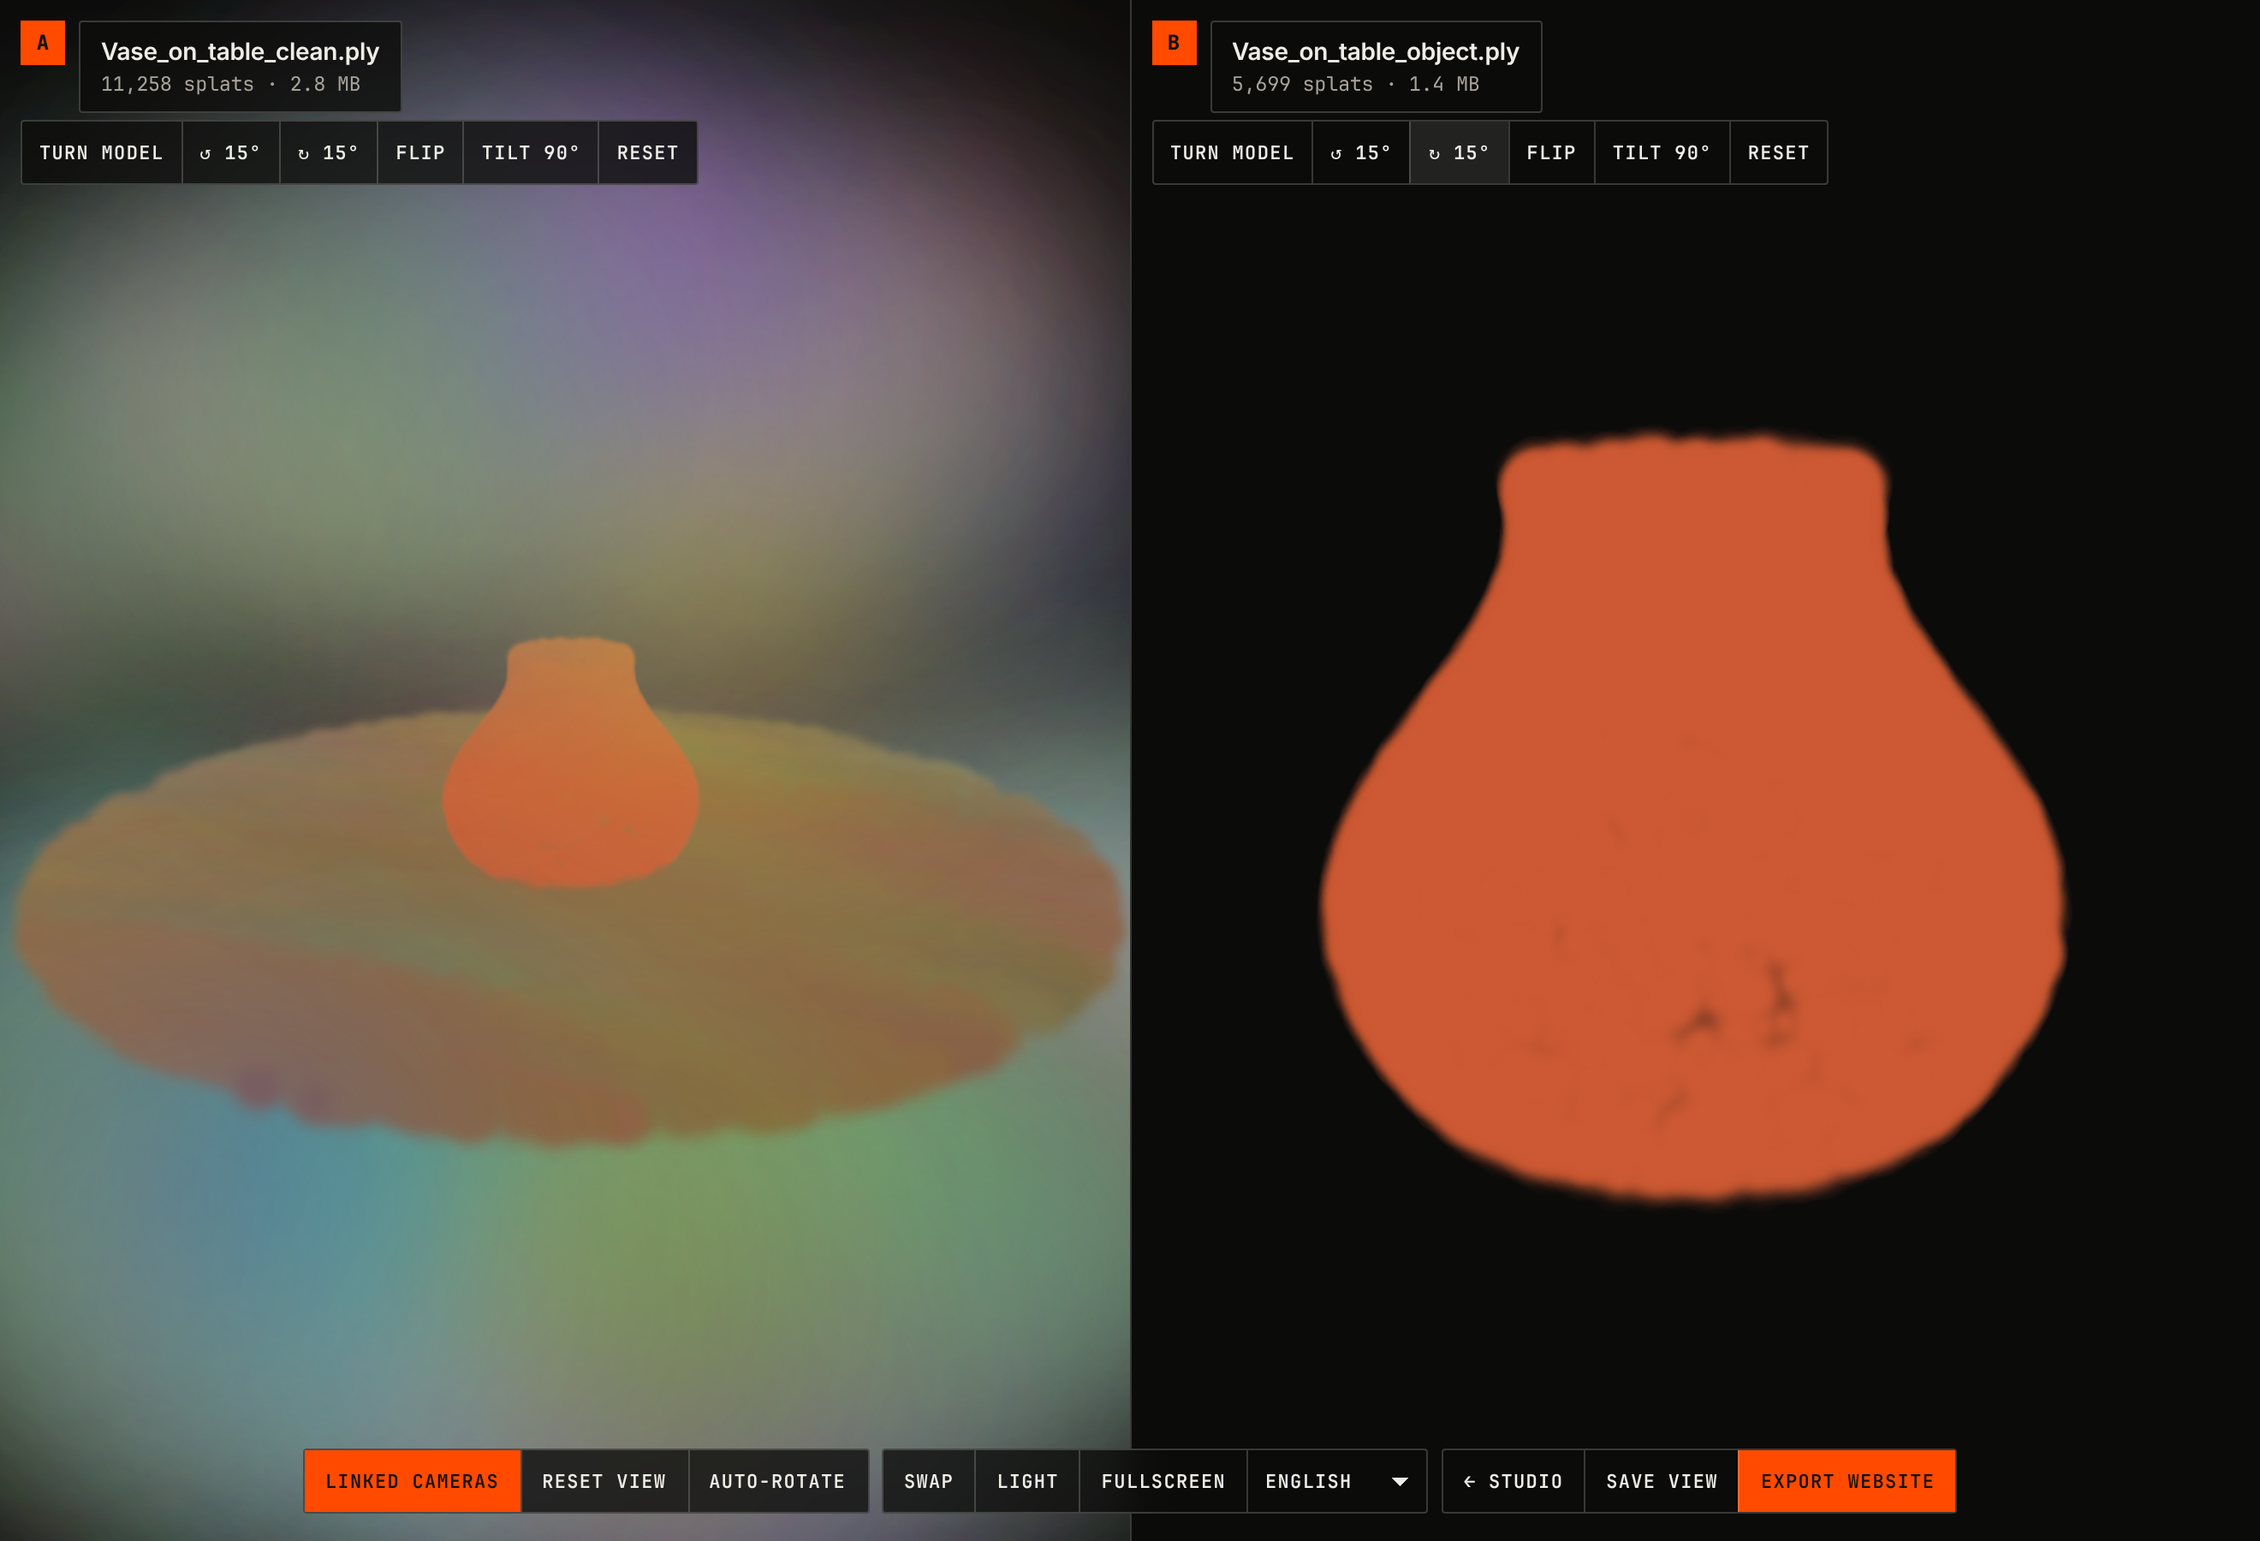
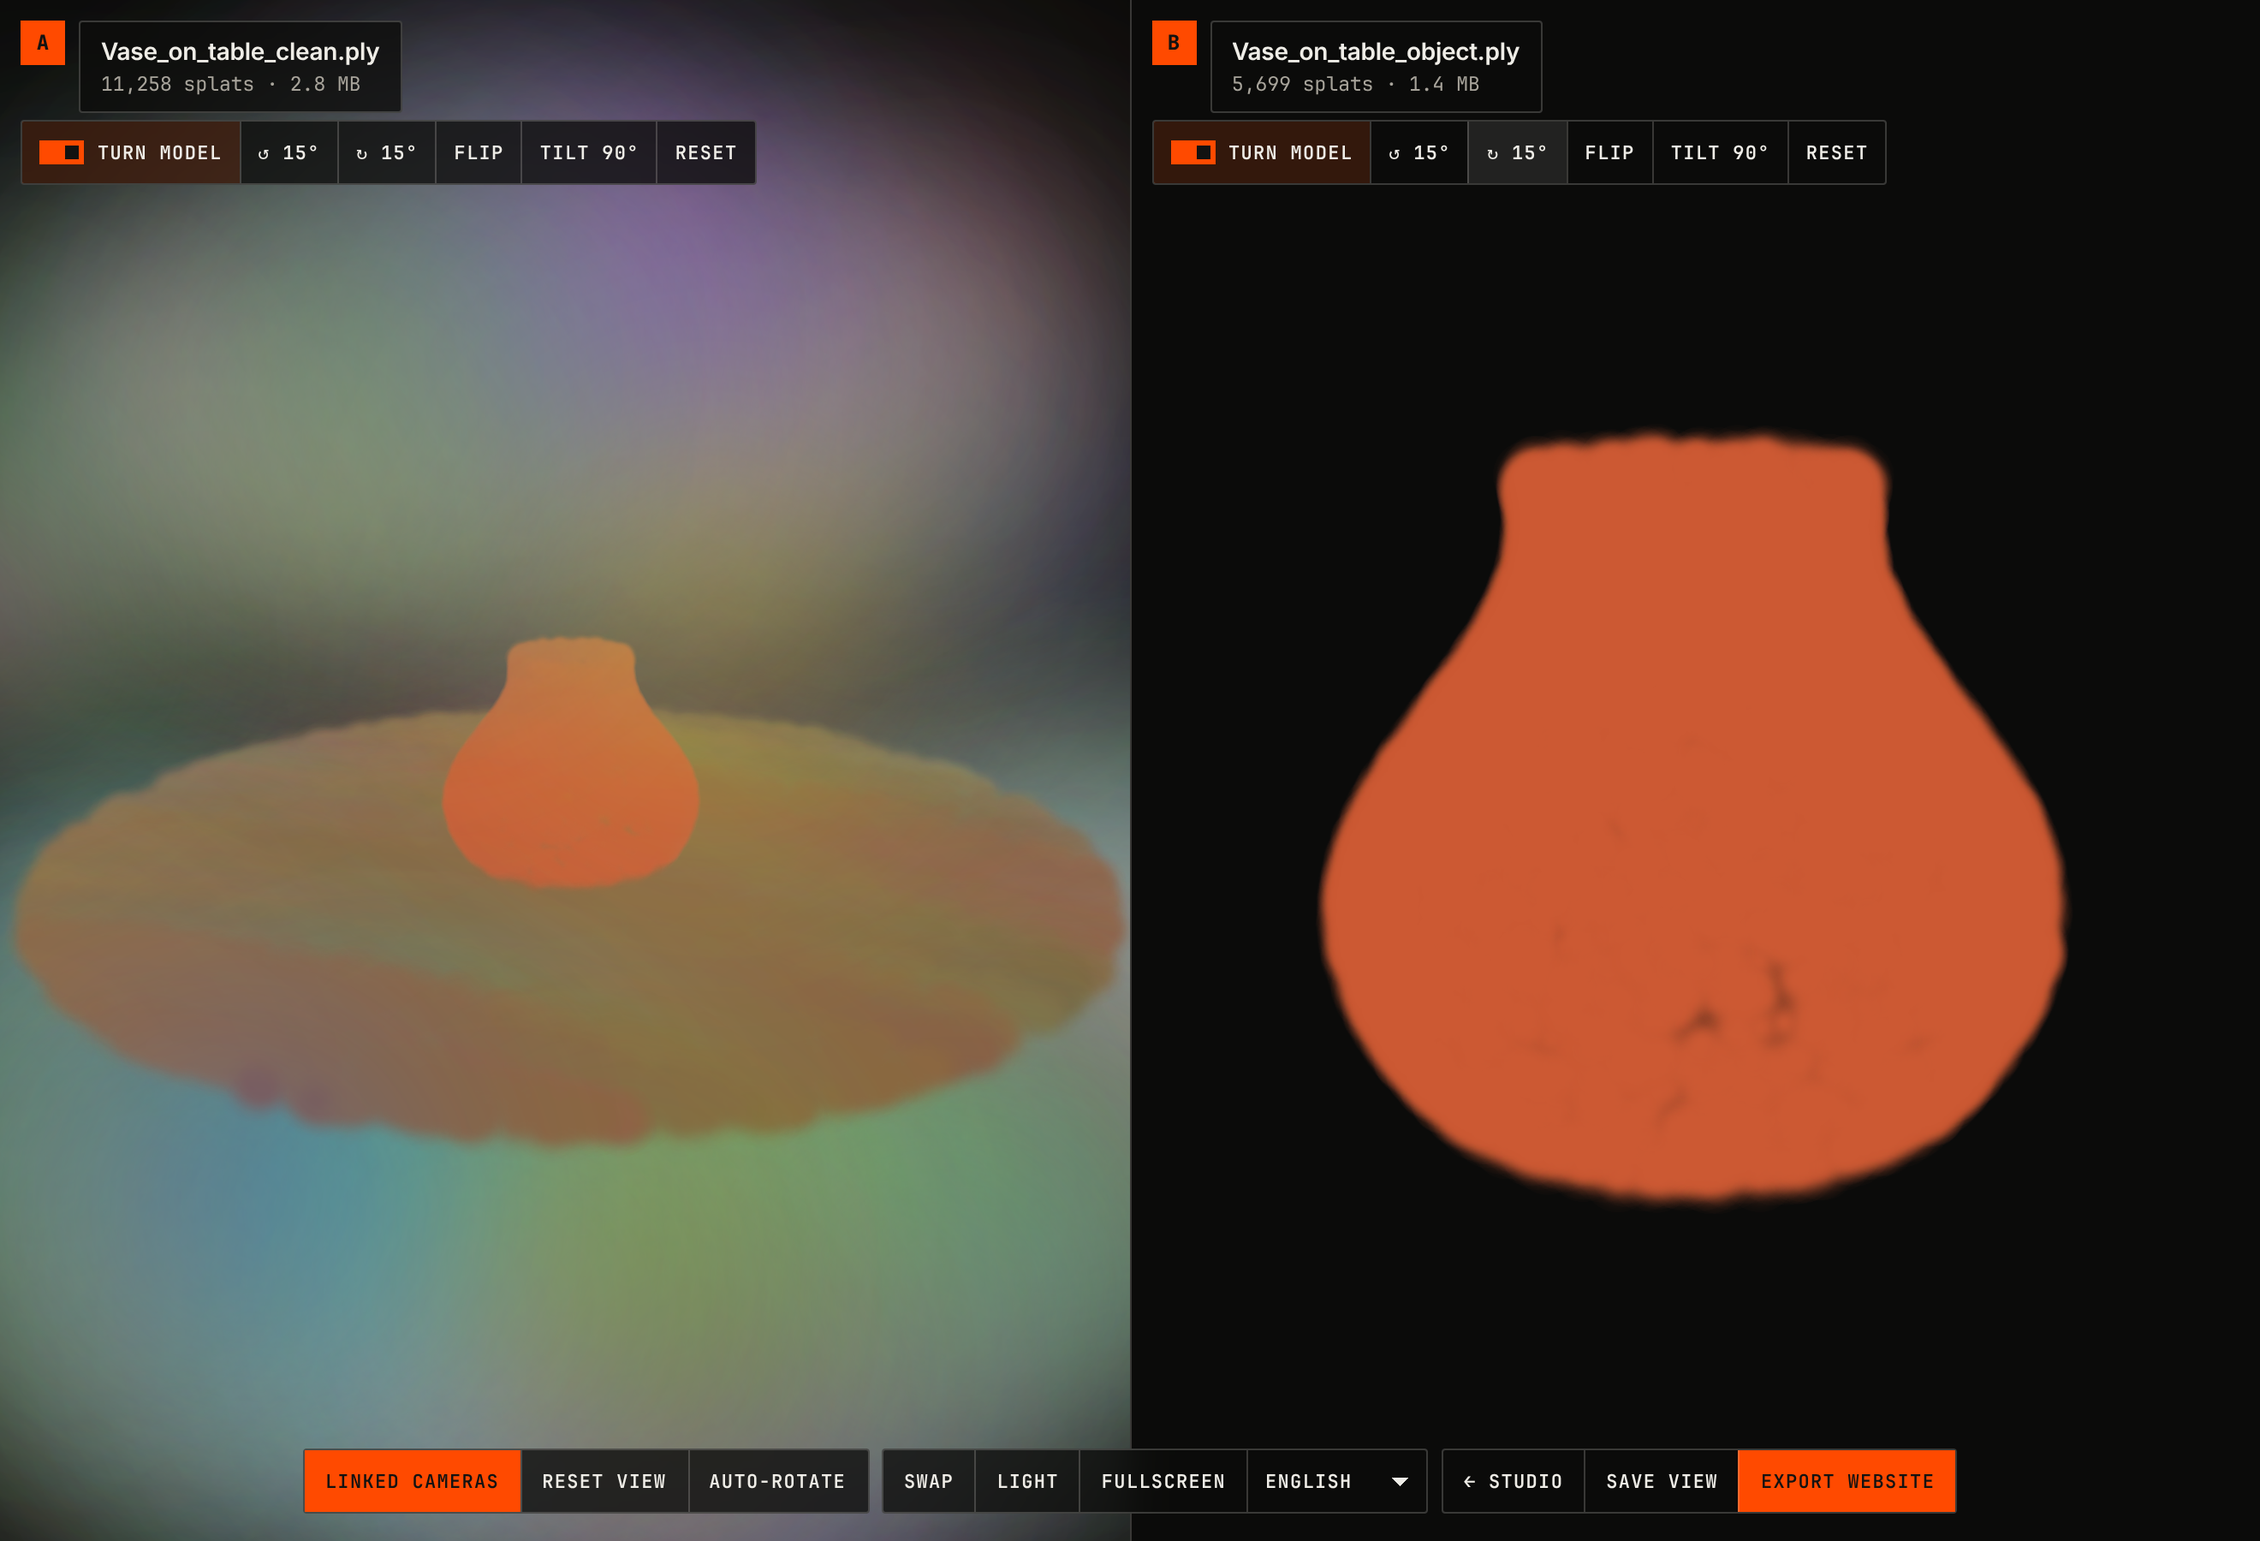
Compare: "Turn model" is a switch, on by default; off locks the model
Both models open with "Turn model" on, so dragging turns the model.
The control is now a real switch (role=switch, aria-checked, track and
knob). Off, the model is locked: dragging turns neither the model nor
the camera, and the Alt/Option shortcut is gone. Wheel zoom, right-drag
pan, auto-rotate and linked cameras still work.

Claude-Session: https://claude.ai/code/session_01Qk8nnEwKWMaUUSz1L1Yyf8

Changed region(s): [[0.0, 0.0622, 0.3417, 0.1244], [0.497, 0.0622, 0.6523, 0.1244], [0.6833, 0.0933, 0.8386, 0.1244]]

diff --git a/src/splat_studio/static/compare.html b/src/splat_studio/static/compare.html
@@ -24,6 +24,15 @@
   .model-bar button { padding: 0 10px; }
   .pane.turning canvas { cursor: grab; }
   .pane.turning canvas:active { cursor: grabbing; }
+  /* "Turn model" is a switch: a track with a knob, signal-coloured and knob right when on */
+  .hud .switch { gap: 8px; }
+  .switch .track { position: relative; width: 26px; height: 14px; flex: none; border: 1px solid var(--hud-ink-2);
+    background: transparent; transition: background var(--fast) var(--ease), border-color var(--fast) var(--ease); }
+  .switch .track::after { content: ""; position: absolute; top: 2px; left: 2px; width: 8px; height: 8px;
+    background: var(--hud-ink-2); transition: transform var(--fast) var(--ease), background var(--fast) var(--ease); }
+  .switch[aria-checked="true"] .track { background: var(--signal); border-color: var(--signal); }
+  .switch[aria-checked="true"] .track::after { transform: translateX(12px); background: var(--on-signal); }
+  .hud .switch[aria-checked="true"], .hud .switch[aria-checked="true"]:hover { background: rgba(255, 90, 20, .16); color: var(--hud-ink); }
   @media (max-width: 760px) { .model-bar { top: 64px; } }
   .loading { position: absolute; inset: 0; display: grid; place-items: center; pointer-events: none; z-index: 1; }
   .loading .hud-chip { min-width: 220px; }
@@ -52,7 +61,7 @@
 <div id="panes">
   <div class="pane" id="pane0" data-testid="pane-a"><div class="pane-label"><span class="slot" aria-hidden="true">A</span><div class="hud-chip pad"><b class="title hud-title" data-i18n="viewer.loading">Loading…</b><span class="stats hud-sub">&nbsp;</span></div></div>
     <div class="hud-chip hud-bar model-bar" data-testid="model-bar-a" data-i18n-title="compare.model.title">
-    <button class="turn" data-testid="turn-a" data-i18n="compare.turn" data-i18n-title="compare.turn.title">Turn model</button>
+    <button class="turn switch" role="switch" aria-checked="true" data-testid="turn-a" data-i18n-title="compare.turn.title"><span class="track" aria-hidden="true"></span><span data-i18n="compare.turn">Turn model</span></button>
     <button class="left" data-i18n="compare.left" data-i18n-title="compare.left.title">↺ 15°</button>
     <button class="right" data-i18n="compare.right" data-i18n-title="compare.right.title">↻ 15°</button>
     <button class="flip hide-sm" data-i18n="viewer.flip">Flip</button>
@@ -61,7 +70,7 @@
     <div class="loading"><div class="hud-chip pad"><div class="msg hud-title" data-i18n="viewer.loading">Loading splat…</div><div class="progress"><i></i></div></div></div></div>
   <div class="pane" id="pane1" data-testid="pane-b"><div class="pane-label"><span class="slot" aria-hidden="true">B</span><div class="hud-chip pad"><b class="title hud-title" data-i18n="viewer.loading">Loading…</b><span class="stats hud-sub">&nbsp;</span></div></div>
     <div class="hud-chip hud-bar model-bar" data-testid="model-bar-b" data-i18n-title="compare.model.title">
-    <button class="turn" data-testid="turn-b" data-i18n="compare.turn" data-i18n-title="compare.turn.title">Turn model</button>
+    <button class="turn switch" role="switch" aria-checked="true" data-testid="turn-b" data-i18n-title="compare.turn.title"><span class="track" aria-hidden="true"></span><span data-i18n="compare.turn">Turn model</span></button>
     <button class="left" data-i18n="compare.left" data-i18n-title="compare.left.title">↺ 15°</button>
     <button class="right" data-i18n="compare.right" data-i18n-title="compare.right.title">↻ 15°</button>
     <button class="flip hide-sm" data-i18n="viewer.flip">Flip</button>
@@ -195,9 +204,13 @@ class Pane {
     for (const ev of ["pointerdown", "wheel", "touchstart"]) {
       this.renderer.domElement.addEventListener(ev, () => { leader = this; }, { passive: true });
     }
-    this.turning = false;                      // "Turn model": dragging turns this model, not the camera
+    // "Turn model" (on at first): dragging turns this model. Off, the model is locked: dragging
+    // doesn't turn it, and the camera never orbits with the mouse either (wheel zooms, right-drag pans).
+    this.turning = true;
+    this.controls.enableRotate = false;
     this.setupTurnDrag();
     const bar = el.querySelector(".model-bar");
+    this.setTurning(true);
     bar.querySelector(".turn").onclick = () => this.setTurning(!this.turning);
     bar.querySelector(".left").onclick = () => this.turn(-15);
     bar.querySelector(".right").onclick = () => this.turn(15);
@@ -211,8 +224,7 @@ class Pane {
   setTurning(on) {
     this.turning = on;
     this.el.classList.toggle("turning", on);
-    this.el.querySelector(".turn").classList.toggle("on", on);
-    this.controls.enabled = !on;
+    this.el.querySelector(".turn").setAttribute("aria-checked", String(on));
   }
   turn(deg) { this.rotateAbout(new THREE.Vector3(0, 1, 0), THREE.MathUtils.degToRad(deg)); }
   // Rotate the model around its own centre by angle about a world axis.
@@ -247,7 +259,7 @@ class Pane {
     const el = this.renderer.domElement;
     let drag = null;
     el.addEventListener("pointerdown", (e) => {          // capture: runs before the orbit controls
-      if (!(this.turning || e.altKey) || !this.fit || e.button !== 0) return;
+      if (!this.turning || !this.fit || e.button !== 0) return;
       this.controls.enabled = false;
       drag = { x: e.clientX, y: e.clientY, id: e.pointerId };
       el.setPointerCapture(e.pointerId);
@@ -265,7 +277,7 @@ class Pane {
       if (!drag || e.pointerId !== drag.id) return;
       drag = null;
       this.refit();
-      this.controls.enabled = !this.turning;
+      this.controls.enabled = true;
     };
     el.addEventListener("pointerup", end);
     el.addEventListener("pointercancel", end);

diff --git a/src/splat_studio/static/i18n.js b/src/splat_studio/static/i18n.js
@@ -236,7 +236,7 @@
       "compare.link.title": "Move both models together (L)",
       "compare.swap": "Swap",
       "compare.model.title": "This model only: the camera and the other model stay put",
-      "compare.turn": "Turn model", "compare.turn.title": "Drag in this view to turn this model only (or hold Alt/Option while dragging)",
+      "compare.turn": "Turn model", "compare.turn.title": "On: drag in this view to turn this model. Off: the model is locked and dragging doesn't turn it",
       "compare.left": "↺ 15°", "compare.left.title": "Turn this model 15° to the left",
       "compare.right": "↻ 15°", "compare.right.title": "Turn this model 15° to the right",
       "compare.orig": "Reset", "compare.orig.title": "Put this model back the way it opened",
@@ -465,7 +465,7 @@
       "compare.link.title": "Mover os dois modelos juntos (L)",
       "compare.swap": "Trocar",
       "compare.model.title": "Só este modelo: a câmera e o outro modelo ficam parados",
-      "compare.turn": "Girar modelo", "compare.turn.title": "Arraste nesta vista para girar só este modelo (ou segure Alt/Option ao arrastar)",
+      "compare.turn": "Girar modelo", "compare.turn.title": "Ligado: arraste nesta vista para girar este modelo. Desligado: o modelo fica travado e arrastar não o gira",
       "compare.left": "↺ 15°", "compare.left.title": "Girar este modelo 15° para a esquerda",
       "compare.right": "↻ 15°", "compare.right.title": "Girar este modelo 15° para a direita",
       "compare.orig": "Redefinir", "compare.orig.title": "Voltar este modelo à posição em que abriu",

diff --git a/tests/integration/test_web_ui.py b/tests/integration/test_web_ui.py
@@ -383,20 +383,31 @@ class CompareAndBackgroundUiTest(BrowserTestCase):
         self.assertTrue(close(q(1), b0))                                   # ...B didn't
         self.assertTrue(close(view(0), cam0))                              # and the camera stayed put
         self.assertTrue(self.page.evaluate(f"{cv}.linked()"))              # cameras still linked
-        # drag to turn: in "Turn model" mode a drag turns the model, not the camera
-        self.page.get_by_test_id("turn-b").click()
-        self.assertTrue(self.page.evaluate(f"{cv}.turning(1)"))
+        # "Turn model" is on for both at first: dragging turns the model, not the camera
+        for L, i in (("a", 0), ("b", 1)):
+            self.assertEqual(self.page.get_attribute(f"[data-testid=turn-{L}]", "aria-checked"), "true")
+            self.assertEqual(self.page.get_attribute(f"[data-testid=turn-{L}]", "role"), "switch")
         box = self.page.get_by_test_id("pane-b").bounding_box()
         cx, cy = box["x"] + box["width"] / 2, box["y"] + box["height"] / 2
+
+        def drag():
+            self.page.mouse.move(cx, cy)
+            self.page.mouse.down()
+            self.page.mouse.move(cx + 120, cy + 20, steps=6)
+            self.page.mouse.up()
+            self.page.wait_for_timeout(300)
+
         cam_b = view(1)
-        self.page.mouse.move(cx, cy)
-        self.page.mouse.down()
-        self.page.mouse.move(cx + 120, cy, steps=6)
-        self.page.mouse.up()
+        drag()
         self.assertFalse(close(q(1), b0))
         self.assertTrue(close(view(1), cam_b))
-        self.page.get_by_test_id("turn-b").click()                         # back to moving the camera
-        self.assertFalse(self.page.evaluate(f"{cv}.turning(1)"))
+        # switched off, the model is locked: a drag turns neither the model nor the camera
+        self.page.get_by_test_id("turn-b").click()
+        self.assertEqual(self.page.get_attribute("[data-testid=turn-b]", "aria-checked"), "false")
+        locked_q, locked_cam = q(1), view(1)
+        drag()
+        self.assertTrue(close(q(1), locked_q))
+        self.assertTrue(close(view(1), locked_cam))
         # Reset puts a model back; Save view remembers both for the viewer
         self.page.get_by_test_id("orig-b").click()
         self.assertTrue(close(q(1), b0))

diff --git a/README.md b/README.md
@@ -229,8 +229,10 @@ comparison website that works like the single-splat one (`index.html`, `compare-
 Each model can also be turned on its own, for example to face both objects the same way.
 The bar under each model's name turns only that model: **↺ 15°** and **↻ 15°** turn it left
 or right, **Flip** and **Tilt 90°** fix a model that opened upside down or on its side, and
-**Reset** puts it back. With **Turn model** on, dragging in that view turns the model instead
-of the camera (or hold Alt/Option while dragging). The cameras stay linked while you do this.
+**Reset** puts it back. **Turn model** is a switch, on for both models when the comparison
+opens: while it's on, dragging in that view turns that model; switch it off to lock the model
+so dragging can't turn it. The mouse wheel still zooms and right-drag pans, and the cameras
+stay linked while you do this.
 **Save view** remembers how both models are turned, and the viewer opens them that way too;
 **Export website** keeps it in the exported comparison.
 
@@ -306,8 +308,9 @@ visualizador; `./splat-studio inspect ARQUIVO.ply` explica a causa. Para mostrar
 sem mesa nem ambiente, use **Remover fundo**. Para ver dois splats lado a lado, clique em
 **Comparar** em dois splats da biblioteca: as câmeras andam juntas, e a comparação pode ser
 exportada como site. A barra embaixo do nome de cada modelo gira só aquele modelo (**↺ 15°**,
-**↻ 15°**, **Virar**, **Inclinar 90°**, **Redefinir**); com **Girar modelo** ligado, arrastar
-na vista gira o modelo em vez da câmera. **Salvar vista** lembra como os dois estão girados.
+**↻ 15°**, **Virar**, **Inclinar 90°**, **Redefinir**). **Girar modelo** é um interruptor,
+ligado nos dois ao abrir: ligado, arrastar na vista gira o modelo; desligado, o modelo fica
+travado e arrastar não o gira. **Salvar vista** lembra como os dois estão girados.
 
 ## Credits
 

diff --git a/CHANGELOG.md b/CHANGELOG.md
@@ -4,9 +4,10 @@
 
 ### Added
 - **Turn each model on its own in the comparison.** A bar under each model's name turns only
-  that model (↺ 15°, ↻ 15°, Flip, Tilt 90°, Reset), and **Turn model** makes dragging in that
-  view turn the model instead of the camera (Alt/Option + drag works too). Cameras stay
-  linked. **Save view** remembers both orientations for the viewer, and exports keep them.
+  that model (↺ 15°, ↻ 15°, Flip, Tilt 90°, Reset). **Turn model** is a switch, on for both
+  models when the comparison opens: on, dragging in that view turns the model; off, the model
+  is locked and dragging doesn't turn it (wheel zoom and right-drag pan still work). Cameras
+  stay linked. **Save view** remembers both orientations for the viewer, and exports keep them.
 - **Site header and footer** on the Studio page and the recording guide: a logo, navigation
   (Studio, Library, Recording guide, Docs), a GitHub link, and a footer with help links,
   bug reports and contact (GitHub issues), the version, the license and credits. Built by
